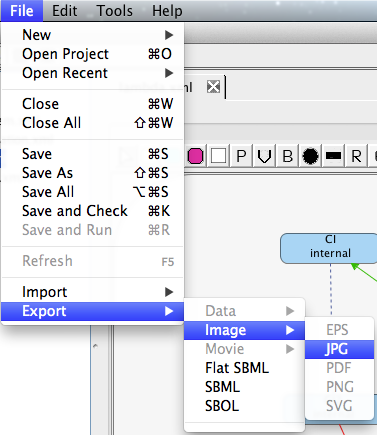
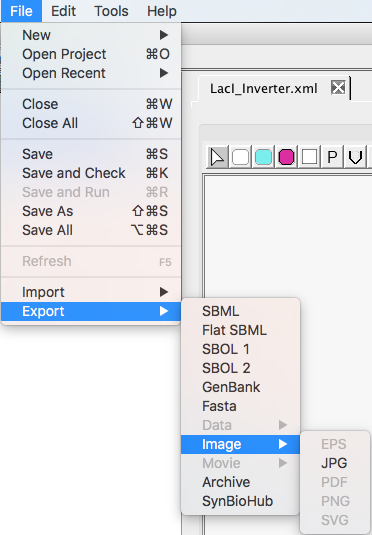
Updated screenshots

diff --git a/gui/src/main/java/edu/utah/ece/async/ibiosim/gui/Gui.java b/gui/src/main/java/edu/utah/ece/async/ibiosim/gui/Gui.java
@@ -562,8 +562,8 @@ public class Gui implements BioObserver, MouseListener, ActionListener, MouseMot
 		importRsg = new JMenuItem("Reduced State Graph");
 		exportSBML = new JMenuItem("SBML");
 		exportFlatSBML = new JMenuItem("Flat SBML");
-		exportSBOL1 = new JMenuItem("SBOL 1.1");
-		exportSBOL2 = new JMenuItem("SBOL 2.0");
+		exportSBOL1 = new JMenuItem("SBOL 1");
+		exportSBOL2 = new JMenuItem("SBOL 2");
 		exportSynBioHub = new JMenuItem("SynBioHub");
 		exportGenBank = new JMenuItem("GenBank");
 		exportFasta = new JMenuItem("Fasta");
@@ -1015,18 +1015,18 @@ public class Gui implements BioObserver, MouseListener, ActionListener, MouseMot
 			// importMenu.add(importSpice);
 		}
 		file.add(exportMenu);
+		exportMenu.add(exportSBML);
+		exportMenu.add(exportFlatSBML);
+		exportMenu.add(exportSBOL1);
+		exportMenu.add(exportSBOL2);
+		exportMenu.add(exportGenBank);
+		exportMenu.add(exportFasta);
 		exportMenu.add(exportDataMenu);
 		exportMenu.add(exportImageMenu);
 		exportMenu.add(exportMovieMenu);
-		exportMenu.add(exportFlatSBML);
-		exportMenu.add(exportSBML);
-		exportMenu.add(exportSBOL1);
-		exportMenu.add(exportSBOL2);
-		exportMenu.add(exportSynBioHub);
-		exportMenu.add(exportGenBank);
-		exportMenu.add(exportFasta);
 		// Removed for now since not working
 		exportMenu.add(exportArchive);
+		exportMenu.add(exportSynBioHub);
 
 		exportDataMenu.add(exportTsd);
 		exportDataMenu.add(exportCsv);
